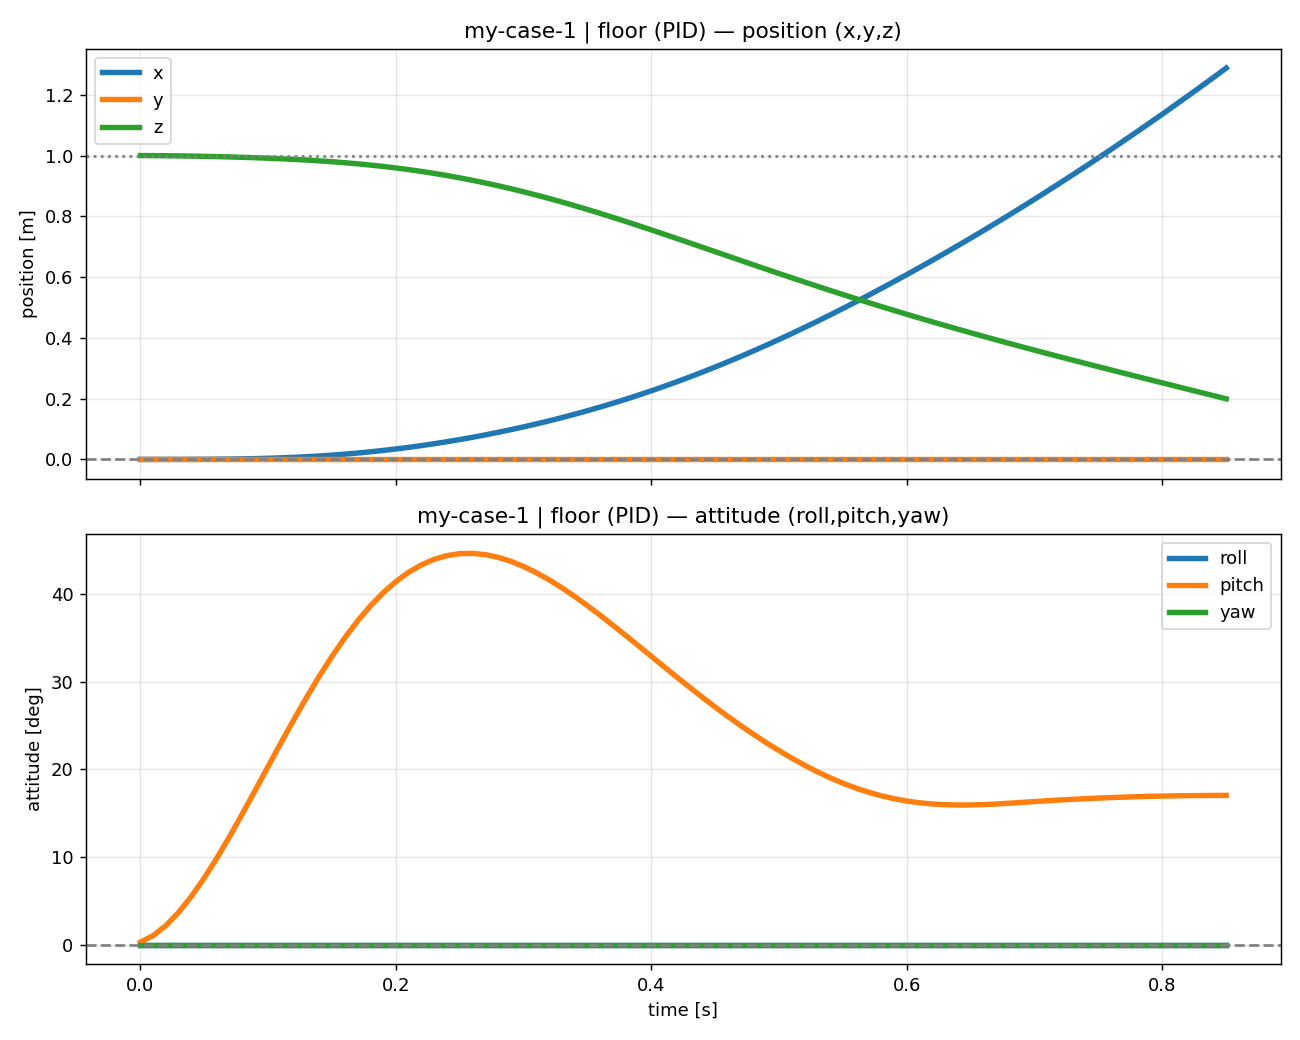
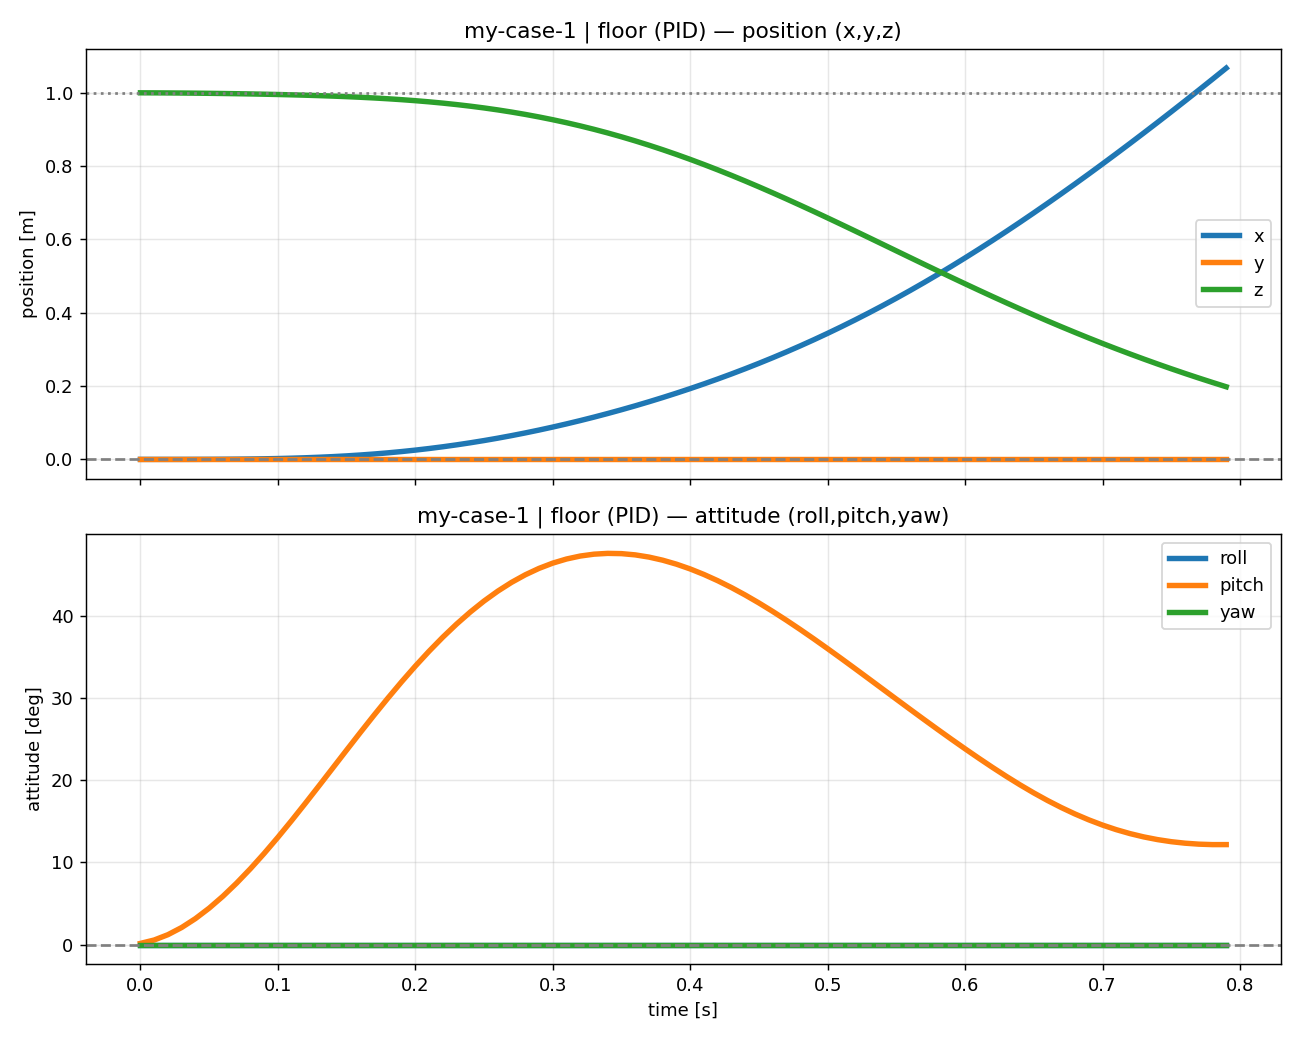
ppo_final_0730

diff --git a/view_live.py b/view_live.py
@@ -26,7 +26,7 @@ LW = 3.0                                   # 선 굵기 (MATLAB 기준 ~3)
 
 TEST_CONDITIONS = [
     #  이름            r (거리)        theta        m_w (무게, kg)
-    ("my-case-1",    0.100,          0.0,         0.008),   # 무게 0, 중심
+    ("my-case-1",    0.20,          0.0,         0.004),   # 무게 0, 중심
     #("my-case-2",    0.060,          np.pi/2,     0.035),
     #("my-case-3",    0.090,          np.pi,       0.029),
 ]

diff --git a/circle_traj.py b/circle_traj.py
@@ -58,7 +58,7 @@ CIRCLE_PRESETS = {
 TEST_CONDITIONS = [
     #("my-case-1",  0.03,        0.0,          0.030),   # |tau|=8.8mNm(44%), r=33%R : in-dist, 안전
     #("my-case-2", 0.060,       np.pi/2,      0.035),   # |tau|=20.6mNm(>max_tau) : 경계
-    ("my-case-3", 0.06,       np.pi,        0.005),   # r≈r_crit(98%) & OOD(>81mm) : 발산 예상
+    ("my-case-3", 0.1,       np.pi,        0.005),   # r≈r_crit(98%) & OOD(>81mm) : 발산 예상
 ]
 
 
